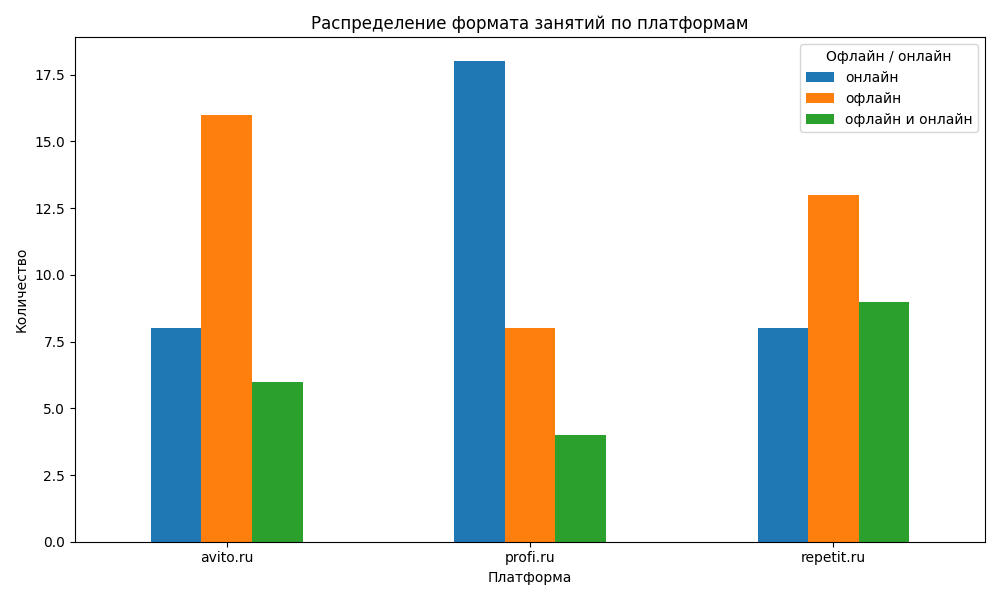
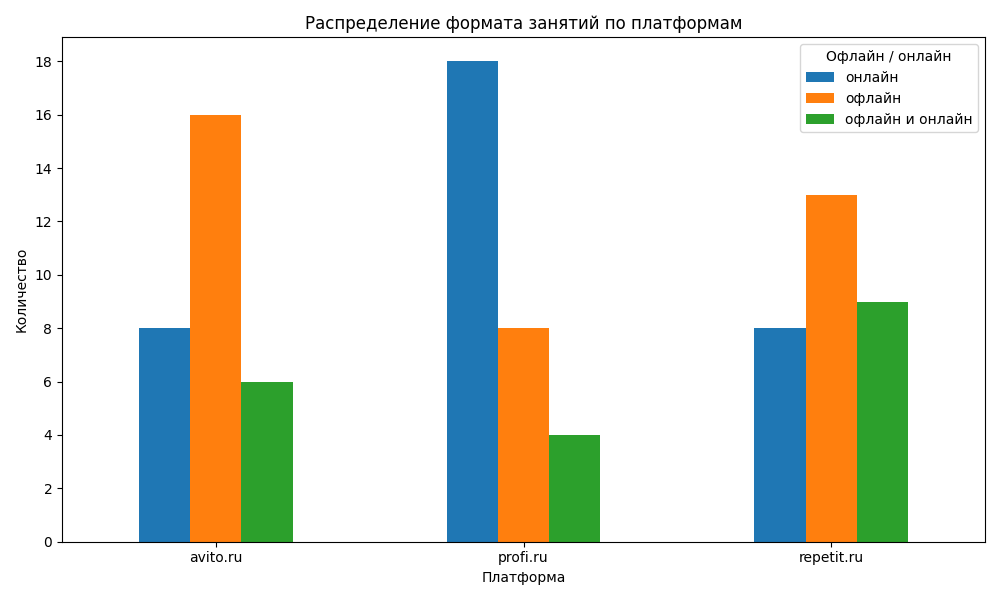
Исправил отображение графика platform_mode_distribution.png

diff --git a/content_analysis.py b/content_analysis.py
@@ -5,6 +5,7 @@ from pathlib import Path
 from typing import Iterable, List
 
 import matplotlib.pyplot as plt
+from matplotlib.ticker import MaxNLocator
 import pandas as pd
 
 
@@ -194,11 +195,14 @@ def save_tables_to_excel(tables: dict, output_path: Path) -> None:
 
 
 def build_basic_bar_chart(df: pd.DataFrame, x_col: str, y_col: str, title: str, xlabel: str, ylabel: str, path: Path, rotate=False) -> None:
-    plt.figure(figsize=(9, 5))
-    plt.bar(df[x_col].astype(str), df[y_col])
-    plt.title(title)
-    plt.xlabel(xlabel)
-    plt.ylabel(ylabel)
+    _, ax = plt.subplots(figsize=(9, 5))
+    ax.bar(df[x_col].astype(str), df[y_col])
+    ax.set_title(title)
+    ax.set_xlabel(xlabel)
+    ax.set_ylabel(ylabel)
+    if "Количество" in ylabel or "Частота" in ylabel:
+        ax.set_ylim(bottom=0)
+        ax.yaxis.set_major_locator(MaxNLocator(integer=True, min_n_ticks=1))
     if rotate:
         plt.xticks(rotation=45, ha="right")
     plt.tight_layout()
@@ -206,11 +210,14 @@ def build_basic_bar_chart(df: pd.DataFrame, x_col: str, y_col: str, title: str, 
     plt.close()
 
 
-def build_grouped_bar_from_pivot(pivot_df: pd.DataFrame, title: str, xlabel: str, ylabel: str, path: Path) -> None:
+def build_grouped_bar_from_pivot(pivot_df: pd.DataFrame, title: str, xlabel: str, ylabel: str, path: Path, integer_y_axis: bool = False) -> None:
     ax = pivot_df.plot(kind="bar", figsize=(10, 6))
     ax.set_title(title)
     ax.set_xlabel(xlabel)
     ax.set_ylabel(ylabel)
+    if integer_y_axis:
+        ax.set_ylim(bottom=0)
+        ax.yaxis.set_major_locator(MaxNLocator(integer=True, min_n_ticks=1))
     plt.xticks(rotation=0)
     plt.tight_layout()
     plt.savefig(path)
@@ -389,7 +396,8 @@ def main():
             "Распределение формата занятий по платформам",
             "Платформа",
             "Количество",
-            charts_dir / "platform_mode_distribution.png"
+            charts_dir / "platform_mode_distribution.png",
+            integer_y_axis=True
         )
 
         print("Готово.")
